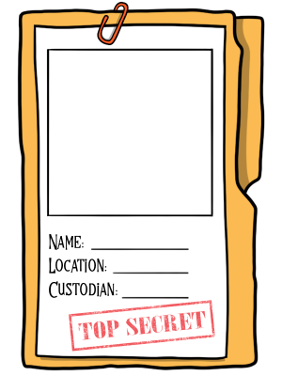
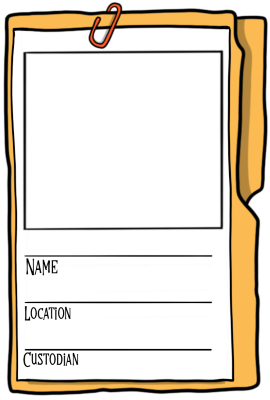
update folder, add environment variables

diff --git a/src/App.js b/src/App.js
@@ -103,9 +103,6 @@ function App() {
   };
 
   const getFolder = () => {
-    if (openArtist) {
-      return 'url("images/human-folder-blank.png")';
-    }
     return 'url("images/hyde-folder-blank.png")';
   }
 
@@ -218,10 +215,10 @@ function App() {
                   sx={{marginTop: 1.2, marginLeft: 6.5}}
               >
               </Image>
-              <Typography gutterBottom sx={{textAlign: "center", mt: 2}}>
+              <Typography gutterBottom sx={{textAlign: "center", mt: 2, marginLeft: -2}}>
                 {`Tyler Gibson`}
               </Typography>
-              <Box display="flex" justifyContent="center" sx={{mb: 3}}>
+              <Box display="flex" justifyContent="center" sx={{mb: 3, marginLeft: -2}}>
                 <Link to={{ pathname: "https://www.imdb.com/name/nm10305239/?ref_=nv_sr_srsg_0" }} target="_blank" rel="_norefferer">
                   <FontAwesomeIcon icon={faImdb} color="black" fontSize="32px" className="icons"/>
                 </Link>
@@ -250,10 +247,10 @@ function App() {
                   sx={{marginTop: 1.2, marginLeft: 6.5}}
               >
               </Image>
-              <Typography gutterBottom sx={{textAlign: "center", mt: 2}}>
+              <Typography gutterBottom sx={{textAlign: "center", mt: 2, marginLeft: -2}}>
                 {`Smolrun`}
               </Typography>
-              <Box display="flex" justifyContent="center" sx={{mb: 3}}>
+              <Box display="flex" justifyContent="center" sx={{mb: 3, marginLeft: -2}}>
                 <Link to={{ pathname: "https://twitter.com/smolrun" }} target="_blank" rel="_norefferer">
                   <FontAwesomeIcon icon={faTwitter} color="black" fontSize="32px" className="icons"/>
                 </Link>
@@ -279,7 +276,7 @@ function App() {
                   sx={{marginTop: 1.2, marginLeft: 6.5}}
               >
               </Image>
-              <Typography gutterBottom sx={{textAlign: "center", mt: 2}}>
+              <Typography gutterBottom sx={{textAlign: "center", mt: 2, marginLeft: -2}}>
                 {`Mint Details TBA`}
               </Typography>
             </DialogContent>

diff --git a/src/components/MapPiece.jsx b/src/components/MapPiece.jsx
@@ -116,18 +116,18 @@ export default function MapPiece(props) {
                         src={`https://api.worldwidehydes.com:5000/api/image/${tokenId}`}
                         alt={`Hyde ${tokenId}`}
                         fit="contain"
-                        height="155px"
-                        width="155px"
-                        sx={{marginTop: 1.2, marginLeft: 6.5}}
+                        height="170px"
+                        width="170px"
+                        sx={{marginTop: 1.2, marginLeft: 4.8}}
                     >
                     </Image>
-                    <Typography gutterBottom sx={{marginTop: 3, marginLeft: 11.5}}>
+                    <Typography gutterBottom sx={{marginTop: 1.6, marginLeft: -5, textAlign: "center"}}>
                         {getName()}
                     </Typography>
-                    <Typography gutterBottom sx={{marginTop: -0.8, marginLeft: 14}}>
+                    <Typography gutterBottom sx={{marginTop: 2.8, marginLeft: -5, textAlign: "center"}}>
                         {`${hydeInfo ? hydeInfo.location.name : ""}`}
                     </Typography>
-                    <Typography gutterBottom sx={{marginTop: -0.7, marginLeft: 15.5}}>
+                    <Typography gutterBottom sx={{marginTop: 2.8, marginLeft: -5, textAlign: "center"}}>
                         {`${hydeInfo ? hydeInfo.owner : ""}`}
                     </Typography>
                 </DialogContent>

diff --git a/src/utils/firebase.js b/src/utils/firebase.js
@@ -4,14 +4,14 @@ import { getDatabase } from "firebase/database";
 
 // Your web app's Firebase configuration
 const firebaseConfig = {
-    databaseURL: "https://ww-hydes-default-rtdb.firebaseio.com/",
-    apiKey: "AIzaSyCRBHZ5msgyrTHX8RqotDWtuUjTxF3NoUk",
-    authDomain: "ww-hydes.firebaseapp.com",
+    databaseURL: process.env.DB,
+    apiKey: process.env.KEY,
+    authDomain: process.env.AUTH,
     projectId: "ww-hydes",
-    storageBucket: "ww-hydes.appspot.com",
-    messagingSenderId: "505629824705",
-    appId: "1:505629824705:web:cf952d5fe731d39183e640",
-    measurementId: "G-N659MQ8GFC"
+    storageBucket: process.env.STORAGE,
+    messagingSenderId: process.env.SENDER,
+    appId: process.env.APPID,
+    measurementId: process.env.MID
 };
 
 // Initialize Firebase

diff --git a/src/App.css b/src/App.css
@@ -12,7 +12,7 @@ body {
 
 #customized-dialog-title {
   text-align: left;
-  margin-left: 108px;
+  margin-left: 118px;
   margin-top: 12px;
   margin-bottom: 0;
   padding-bottom: 0;
